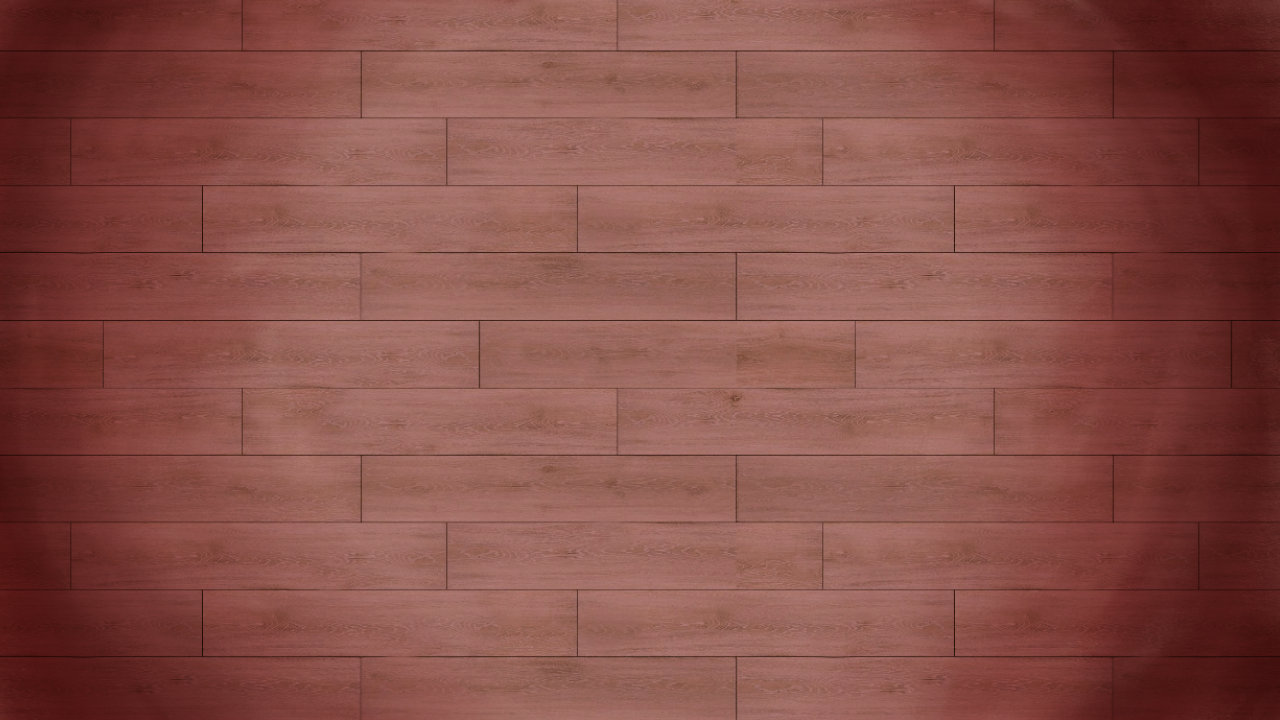
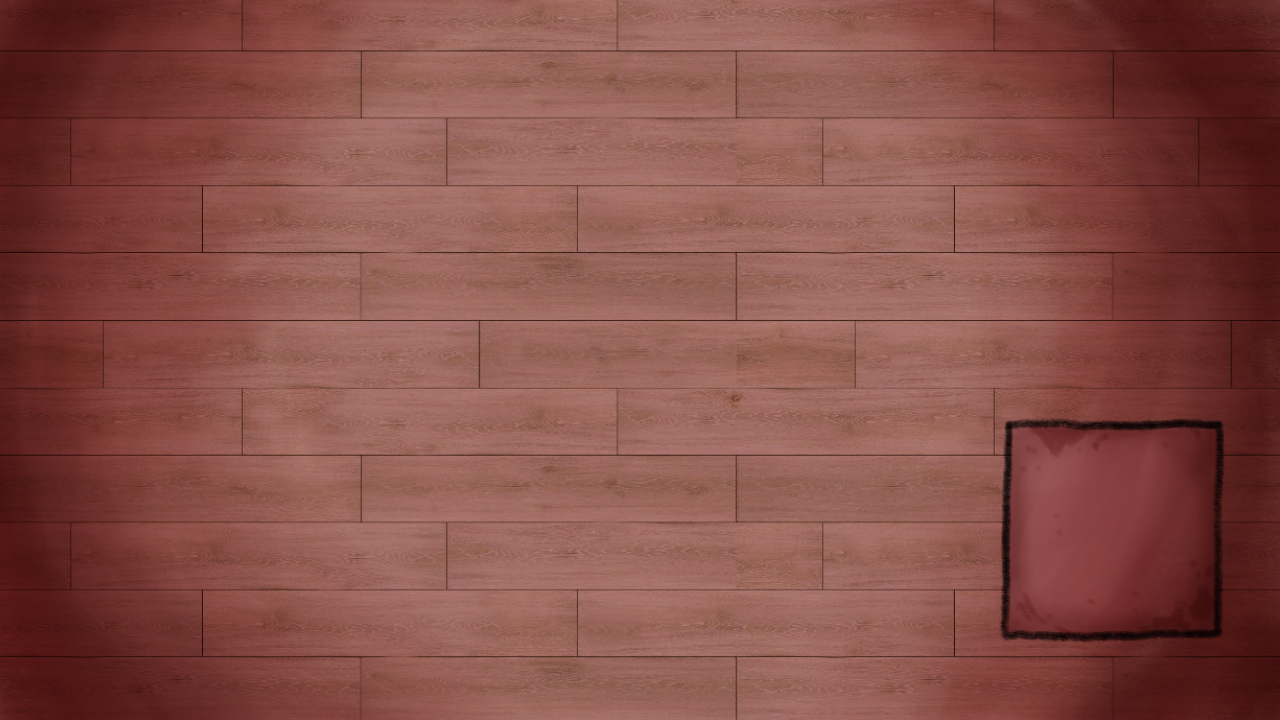
Added New Seals to play 5 levels.

Changed region(s): [[0.7812, 0.5806, 0.9688, 0.9167], [0.8438, 0.7028, 0.875, 0.7333]]

diff --git a/js/Game.js b/js/Game.js
@@ -61,7 +61,7 @@ class Game extends Phaser.Scene {
             this.nextRound();
         };
 
-        this.startPuzzle('grid-test', 4, 4);
+        this.startPuzzle('gly-01', 4, 4);
 	}
 
 	drawGrid() {
@@ -69,14 +69,18 @@ class Game extends Phaser.Scene {
 		let bgFloor = this.add.image(0,0, 'bg-floor');
 		bgFloor.setOrigin(0,0);
 
+        //let bgBoard = this.add.image(0,0, 'bg-board');
+		//bgBoard.setOrigin(0,0);
+
+        let bgGrid = this.add.image(0,0, 'bg-gameplay-grid');
+        bgGrid.setOrigin(0);
+        bgGrid.setAlpha(.4);
+
 		let bgCircle = this.add.image(0,0, 'bg-circle');
 		bgCircle.setOrigin(0,0);
 
-        const rm_shadow = this.add.image(0, 0, 'bg-shadow');
-        rm_shadow.setOrigin(0);
-
-		//let bgBoard = this.add.image(0,0, 'bg-board');
-		//bgBoard.setOrigin(0,0);
+        //const rm_shadow = this.add.image(0, 0, 'bg-shadow');
+        //rm_shadow.setOrigin(0);
 	}
 
 	drawCandles(){
@@ -403,7 +407,8 @@ class Game extends Phaser.Scene {
                     this.input.once('pointerdown', this.invokeTime, this);
                 }
             });
-
+            
+            //this.add.image(256, 256, 'gly-01');
             /* this.pieces.each(piece => {
                 piece.setPostPipeline('ShinePostFX');
             }); */
@@ -422,17 +427,29 @@ class Game extends Phaser.Scene {
         let iterations;
         let nextPhoto;
 
-        if (this.photo === 'grid-test'){
-            nextPhoto = 'grid-test2';
-            iterations = 3;
+        if (this.photo === 'gly-01'){
+            nextPhoto = 'gly-02';
+            iterations = 4;
             size = 4;
-        } else if (this.photo === 'grid-test2'){
-            nextPhoto = 'grid-test3';
-            iterations = 3;
+        } else if (this.photo === 'gly-02'){
+            nextPhoto = 'gly-03';
+            iterations = 11;
+            size = 4;
+        } else if (this.photo === 'gly-03') {
+            nextPhoto = 'gly-04';
+            iterations = 18;
+            size = 4;
+        } else if (this.photo === 'gly-04') {
+            nextPhoto = 'gly-05';
+            iterations = 26;
+            size = 4;
+        } else if (this.photo === 'gly-05') {
+            nextPhoto = 'gridtest';
+            iterations = 35;
             size = 4;
         } else {
-            nextPhoto = 'grid-test';
-            iterations = 10;
+            nextPhoto = 'gly-01';
+            iterations = 15;
             size = 4;
         }
 
@@ -469,7 +486,7 @@ class Game extends Phaser.Scene {
         
         setTimeout(() => {
             this.nextRound();
-        }, 5500);
+        }, 5050);
         //this.scene.start('invoke');
     }
 

diff --git a/js/Load.js b/js/Load.js
@@ -13,6 +13,7 @@ class Load extends Phaser.Scene {
 		this.load.image('bg-menu', 'asset/img/MyDemonicLittleDemons_Menu.png');
 		this.load.image('btn-play', 'asset/img/mdld_Menu_btn-play.png');
 		this.load.image('bg-board', 'asset/img/MyDemonicLittleDemons_Board.png');
+		this.load.image('bg-gameplay-grid', 'asset/img/T_MDLD_Gameplay_Grid.png');
 		this.load.image('candle-off', 'asset/img/T_MDLD_Candle_off.png');
 		this.load.image('candle-on', 'asset/img/T_MDLD_Candle_on.png');
 		this.load.image('bg-floor', 'asset/img/T_MDLD_Bg_Floor.png');
@@ -28,7 +29,12 @@ class Load extends Phaser.Scene {
 		this.load.image('lamp', 'asset/img/T_MDLD_Lamp.png');
 		this.load.image('table', 'asset/img/T_MDLD_Table.png');
 
+		this.load.image('gly-test', 'asset/img/gly_test.png');
 		this.load.image('gly-01', 'asset/img/T_MDLD_Graph_01_S.png');
+		this.load.image('gly-02', 'asset/img/T_MDLD_Graph_02_S.png');
+		this.load.image('gly-03', 'asset/img/T_MDLD_Graph_03_S.png');
+		this.load.image('gly-04', 'asset/img/T_MDLD_Graph_04_S.png');
+		this.load.image('gly-05', 'asset/img/T_MDLD_Graph_05_S.png');
 
 		this.load.image('grid-test', 'asset/img/mdld_grid-test.png');
 		this.load.image('grid-test2', 'asset/img/mdld_grid-test2.png');
